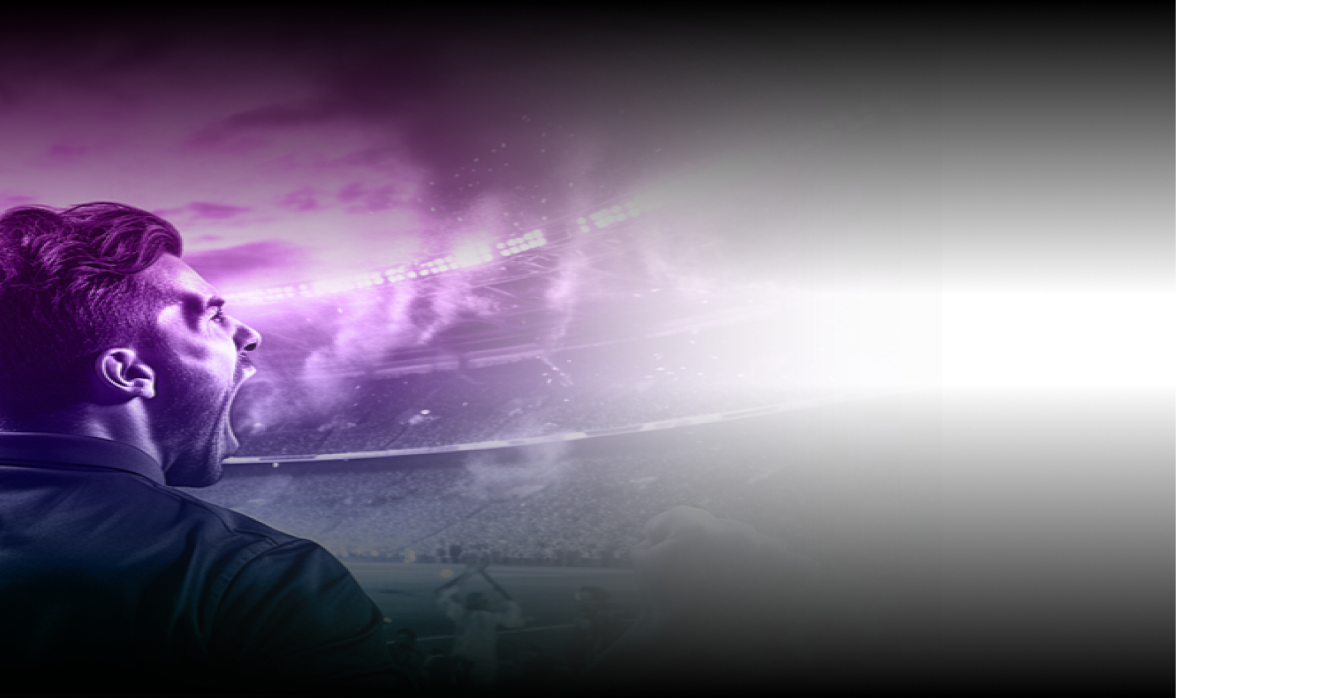
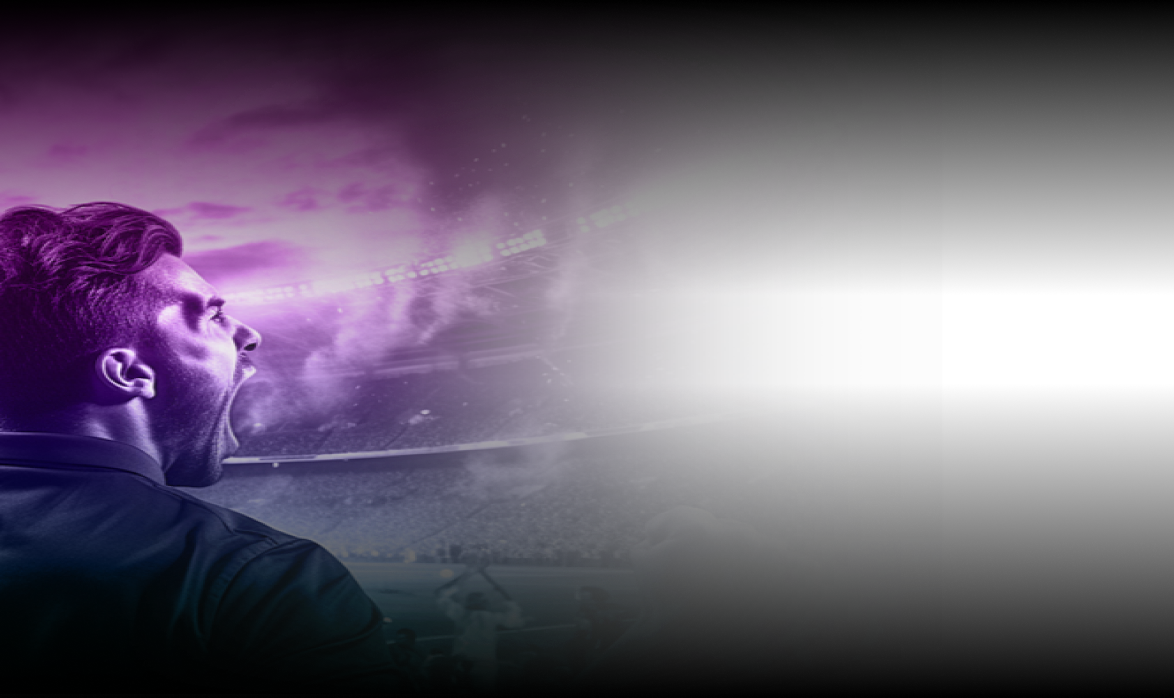
new

diff --git a/src/components/Test.jsx b/src/components/Test.jsx
@@ -3,7 +3,7 @@ import React from "react";
 function Test() {
   return (
     <section className="test-bg relative">
-      <img src="images/black-b2.png" alt="" className=" center-div2" />
+      <img src="images/black-b2.png" alt="" className=" center-div2 top-[50%] z-50 h-full" />
       <div className="flex justify-end gap-5 items-center flex-col sm:flex-row">
         <div>
           <img src="images/test-mg.png" alt="" className="w-[100%] h-full" />
